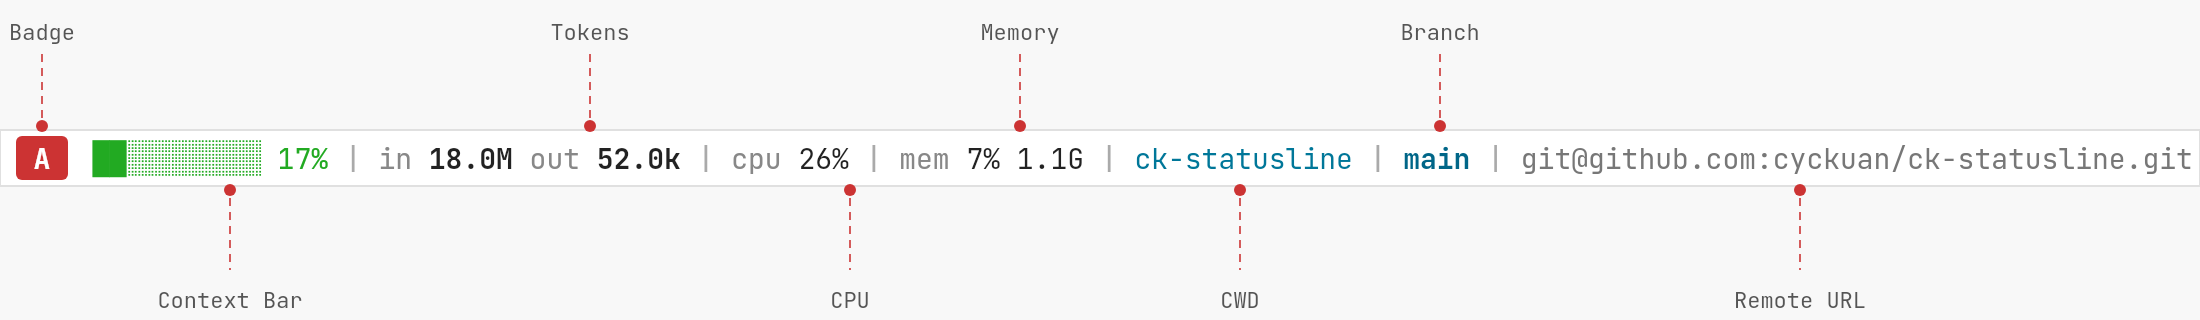
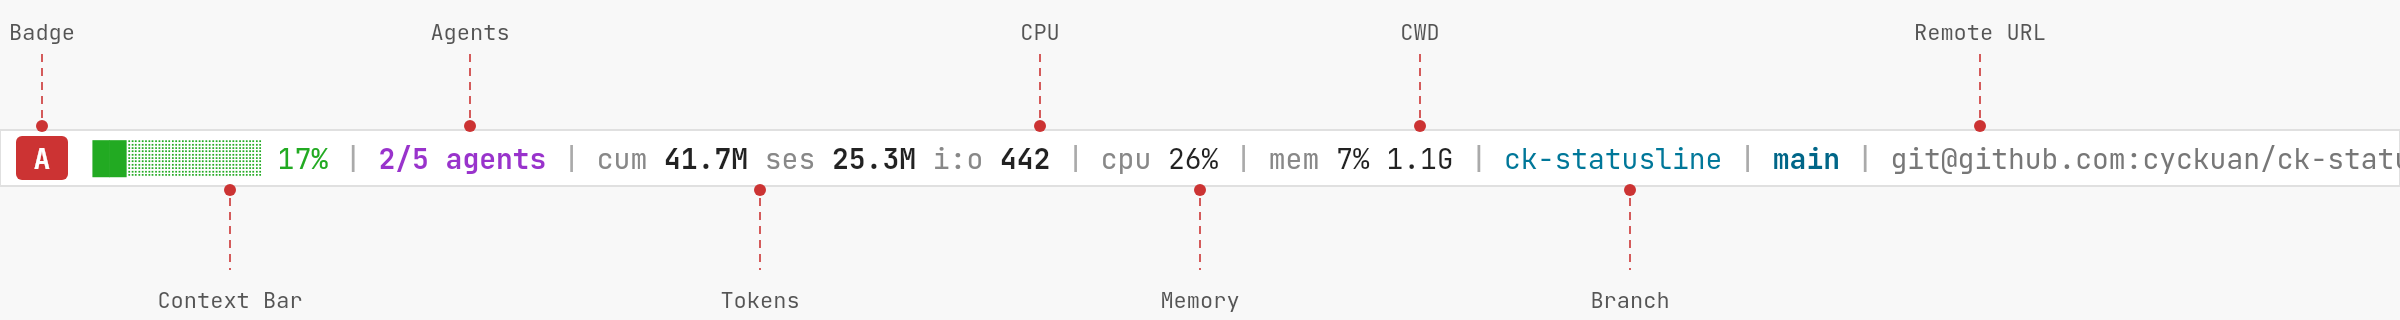
feat: round i:o ratio to integer, update diagram and README with all metrics

diff --git a/scripts/statusline.js b/scripts/statusline.js
@@ -351,7 +351,7 @@ function run() {
       if (tokens) {
         const sessionTotal = tokens.input + tokens.output;
         const cumulativeTotal = cumulative.input + cumulative.output;
-        const ratio = tokens.output > 0 ? (tokens.input / tokens.output).toFixed(1) : '0';
+        const ratio = tokens.output > 0 ? Math.round(tokens.input / tokens.output) : '0';
         parts.push(`${c.tokLabel}cum${c.reset} ${c.tokValue}${formatTokens(cumulativeTotal)}${c.reset} ${c.tokLabel}ses${c.reset} ${c.tokValue}${formatTokens(sessionTotal)}${c.reset} ${c.tokLabel}i:o${c.reset} ${c.tokValue}${ratio}${c.reset}`);
       }
       parts.push(`${c.cpuLabel}cpu${c.reset} ${c.cpuValue}${cpu}%${c.reset}`);

diff --git a/README.md b/README.md
@@ -38,13 +38,19 @@ A 10-character progress bar showing how much of the context window has been cons
 
 Agents dispatched this turn / total agents dispatched this session. Parsed from the session transcript file by counting `Agent` tool calls. Only shown when total is greater than zero.
 
-### Session Tokens
+### Tokens
 
 ```
-in 4.2M out 39.1k
+cum 41.7M ses 25.3M i:o 442
 ```
 
-Cumulative input and output tokens for the current session, parsed from the transcript file. Input includes `input_tokens`, `cache_creation_input_tokens`, and `cache_read_input_tokens`. Values are formatted as `k` (thousands) or `M` (millions).
+Three token metrics:
+
+- **`cum`** — running cumulative total across all sessions. Persisted to `config/cumulative-tokens.json` and never reset by `/clear`.
+- **`ses`** — current session total (input + output) from the transcript file.
+- **`i:o`** — input-to-output token ratio (rounded to nearest integer). High ratios (e.g. 400+) are normal in long conversations since each turn re-sends the full context.
+
+Token values are formatted as `k` (thousands) or `M` (millions). Input includes `input_tokens`, `cache_creation_input_tokens`, and `cache_read_input_tokens`.
 
 ### CPU %
 
